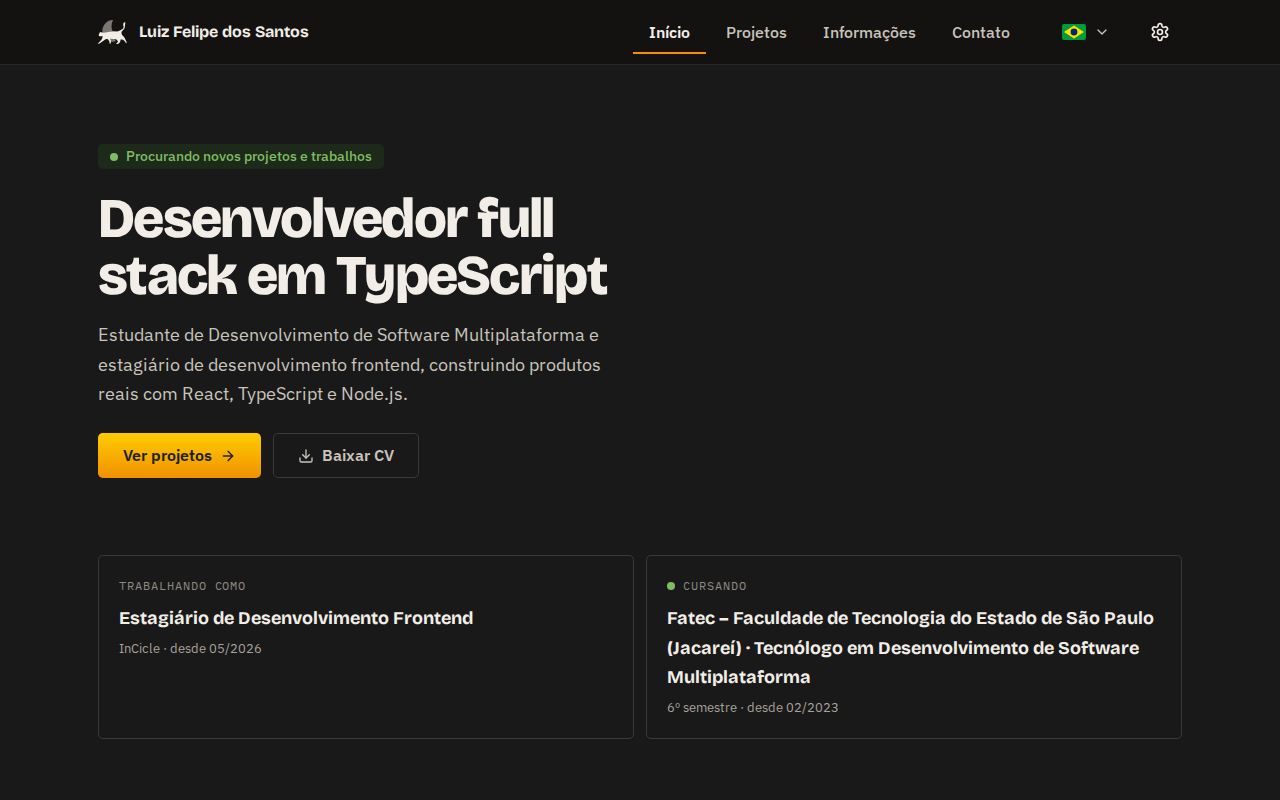
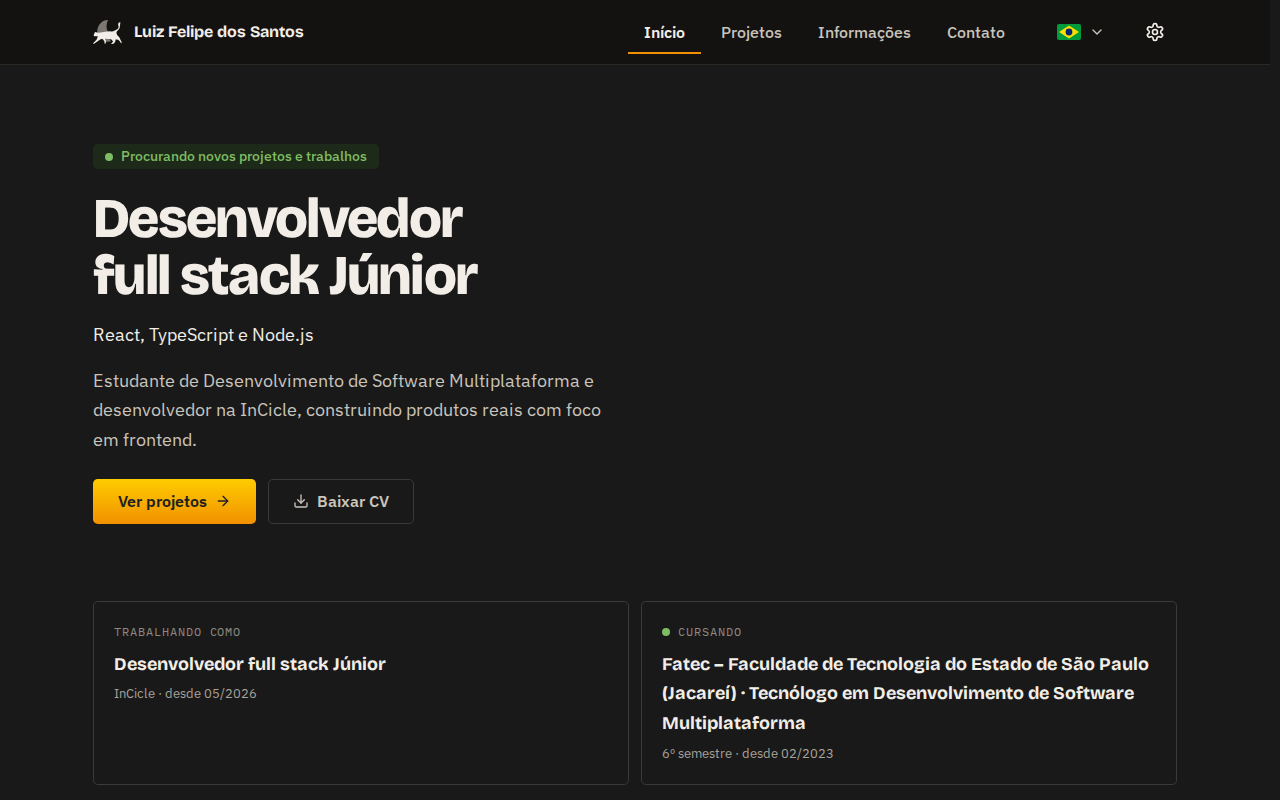
Docs :bulb: [#134] Declara o cargo Júnior no README e no index.html e regera as capturas

diff --git a/scripts/test/indexHtmlMeta.test.ts b/scripts/test/indexHtmlMeta.test.ts
@@ -1,0 +1,25 @@
+// @vitest-environment node
+import { readFileSync } from "node:fs"
+import { join } from "node:path"
+import { fileURLToPath } from "node:url"
+import { describe, expect, it } from "vitest"
+
+const ROOT = fileURLToPath(new URL("../..", import.meta.url))
+const INDEX_HTML = readFileSync(join(ROOT, "index.html"), "utf8")
+const HOME_PT_BR: { meta: { description: string } } = JSON.parse(
+    readFileSync(join(ROOT, "src", "locales", "pt-BR", "home.json"), "utf8")
+)
+
+describe("metadados de index.html", () => {
+    it("usa a description da Início em pt-BR", () => {
+        const match = INDEX_HTML.match(/<meta\s+name="description"\s+content="([^"]*)"/)
+
+        expect(match?.[1]).toBe(HOME_PT_BR.meta.description)
+    })
+
+    it("usa o cargo Júnior no title", () => {
+        const match = INDEX_HTML.match(/<title>([^<]*)<\/title>/)
+
+        expect(match?.[1]).toBe("Luiz Felipe dos Santos · Desenvolvedor full stack Júnior")
+    })
+})

diff --git a/index.html b/index.html
@@ -92,9 +92,9 @@
         </script>
         <meta
             name="description"
-            content="Portfólio de Luiz Felipe dos Santos, desenvolvedor full stack em TypeScript: projetos, trajetória e contato."
+            content="Portfólio de Luiz Felipe dos Santos, desenvolvedor full stack Júnior com React, TypeScript e Node.js: projetos, trajetória e contato."
         />
-        <title>Luiz Felipe dos Santos · Desenvolvedor full stack</title>
+        <title>Luiz Felipe dos Santos · Desenvolvedor full stack Júnior</title>
         <link rel="icon" type="image/svg+xml" href="/favicon.svg" />
         <link
             rel="preload"

diff --git a/scripts/test/readme.test.ts b/scripts/test/readme.test.ts
@@ -132,6 +132,14 @@ describe("README.md", () => {
         expect(match?.[1]).toBe(packageJson.homepage)
     })
 
+    it("resume o perfil como Junior full stack developer com React, TypeScript e Node.js", () => {
+        const summary = readme.split("\n")[2]
+
+        expect(summary).toContain(
+            "a Junior full stack developer working with React, TypeScript and Node.js"
+        )
+    })
+
     it("cita o site e o repositório da Fatec", () => {
         expect(readme).toContain(`](${FATEC_SITE})`)
         expect(readme).toContain(`](${FATEC_REPOSITORY})`)

diff --git a/.specs/features/declara-vaga-junior-e-encurta-cartao-fatec/tasks.md b/.specs/features/declara-vaga-junior-e-encurta-cartao-fatec/tasks.md
@@ -69,7 +69,7 @@ T5 (README e `index.html`), T6 (docs) e T7 (CV e PDFs) editam arquivos diferente
     - **Feito quando:** o gate passa; a Evidência traz a posição do `h2` e as alturas antes e depois a 375 e 390px, e uma captura; verificação manual (aparência, tela Início, 375/390/640/1280px, três idiomas, dois temas) anotada; o desktop não mudou
     - **Evidência:** ...
 
-- [ ] T5 [P] — README (resumo e capturas) e `index.html`
+- [x] T5 [P] — README (resumo e capturas) e `index.html`
     - **Arquivo(s):** `README.md` (linha 3: "Personal portfolio of Luiz Felipe dos Santos, a Junior full stack developer working with React, TypeScript and Node.js."), `index.html` (`<title>` "Luiz Felipe dos Santos · Desenvolvedor full stack Júnior" e `<meta name="description">` igual a `home.meta.description` de `pt-BR`), `docs/design/assets/readme/home-light.png` e `home-dark.png` (`npm run readme:images`, até 300 KB cada; exige `build:fatec` e `preview:fatec`), `scripts/test/readme.test.ts` (afirma o resumo), teste que compara `index.html` com `src/locales/pt-BR/home.json` ao lado dos testes de `index.html` já existentes
     - **Depende de:** T3
     - **Testes (escritos antes, RED):**
@@ -77,7 +77,7 @@ T5 (README e `index.html`), T6 (docs) e T7 (CV e PDFs) editam arquivos diferente
         - o resumo do README em inglês diz "Junior full stack developer", React, TypeScript e Node.js, e as regras de `readme.test.ts` (ordem, até 100 linhas, capturas) seguem verdes (CA4)
     - **Gate:** `npm run typecheck && npm run lint && npm test -- --run scripts/test/readme.test.ts scripts/test/readmeScreenshotPath.test.ts scripts/test/prepareFatecArtifact.test.ts`
     - **Feito quando:** o gate passa; as capturas mostram o título novo; se a máquina não aguentar regerar, a pendência fica anotada na Evidência (Q8)
-    - **Evidência:** ...
+    - **Evidência:** gate verde (63 testes em `readme`, `readmeScreenshotPath`, `prepareFatecArtifact`, `indexHtmlMeta`, `fontWeights`). CA3 `scripts/test/indexHtmlMeta.test.ts` (`toBe` da description de `pt-BR` e do `<title>`); CA4 `scripts/test/readme.test.ts` "resume o perfil como Junior full stack developer..." (`toContain`). Capturas regeneradas com `npm run readme:images` (69 KB e 68 KB), conferidas por leitura da imagem: mostram "Desenvolvedor full stack Júnior", a linha da stack e o novo `homeIntro`; o cartão "Cursando" ainda aparece com o texto longo (esperado, T4 só altera o celular).
 
 - [ ] T6 [P] — Documentação viva: requisitos, textos, JSON-LD e decisão (só `home.md` e `about.md`)
     - **Arquivo(s):** `docs/screens/home.md` (riscar `RF-HOME-04` e `A11Y-IN01`; acrescentar `RF-HOME-26`, `RF-HOME-27`, `RF-HOME-28`; linhas 37, 85, 147, 197, 198, 353 e 397; tabela de chaves com `hero.stack`; JSON-LD com `jobTitle` `home:heading`; tabela de divergências; registro da decisão do cargo Júnior), `docs/screens/about.md` (tabela de `role`/`jobTitle` e JSON-LD: nota do cargo Júnior e a decisão), `docs/product/accessibility.md` (linha 300 e o novo ID, o próximo livre depois de `A11Y-IN07`), `docs/design/design-system.md:223`, `docs/screens/layout.md:301`, `docs/product/overview.md` (linha 3)

diff --git a/README.md b/README.md
@@ -1,6 +1,6 @@
 # Portfólio — Luiz Felipe dos Santos
 
-Personal portfolio of Luiz Felipe dos Santos, a full stack developer working with TypeScript.
+Personal portfolio of Luiz Felipe dos Santos, a Junior full stack developer working with React, TypeScript and Node.js.
 Five screens in three languages (`pt-BR`, `en` and `es`), with light and dark themes, built with React 19 and Vite.
 It runs on local data, with no backend yet: a data layer answers as the future API will.
 
